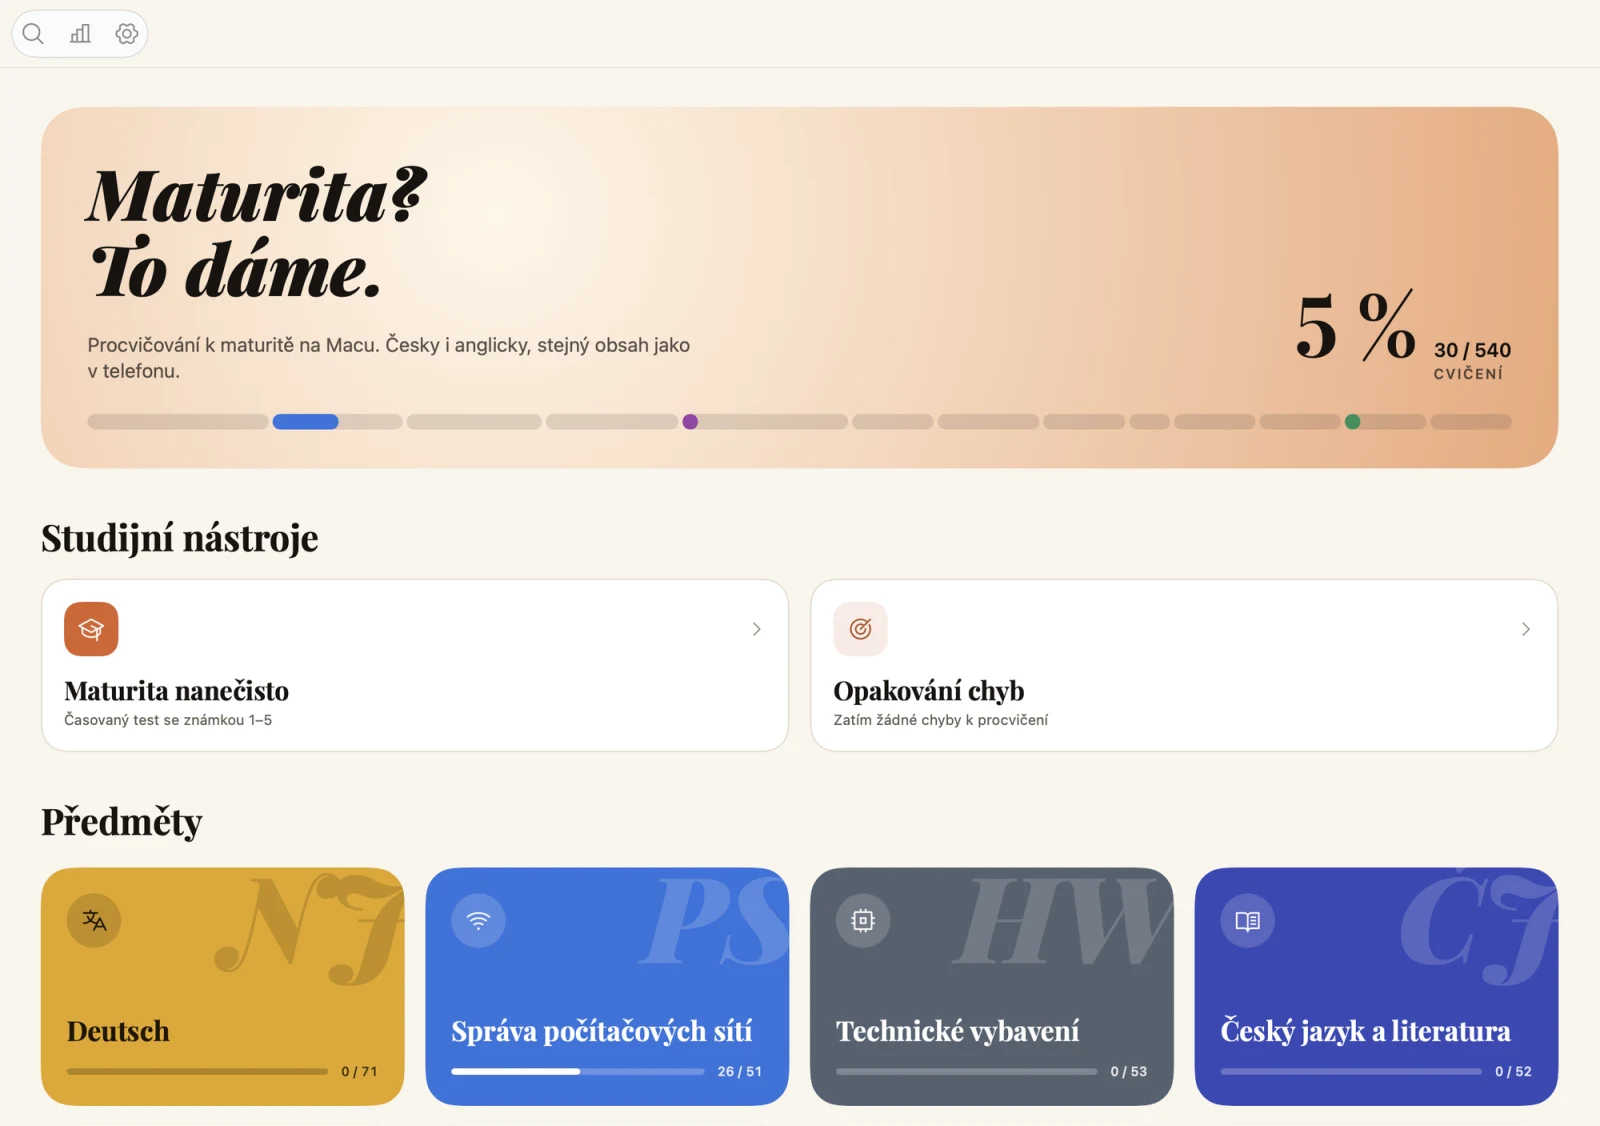
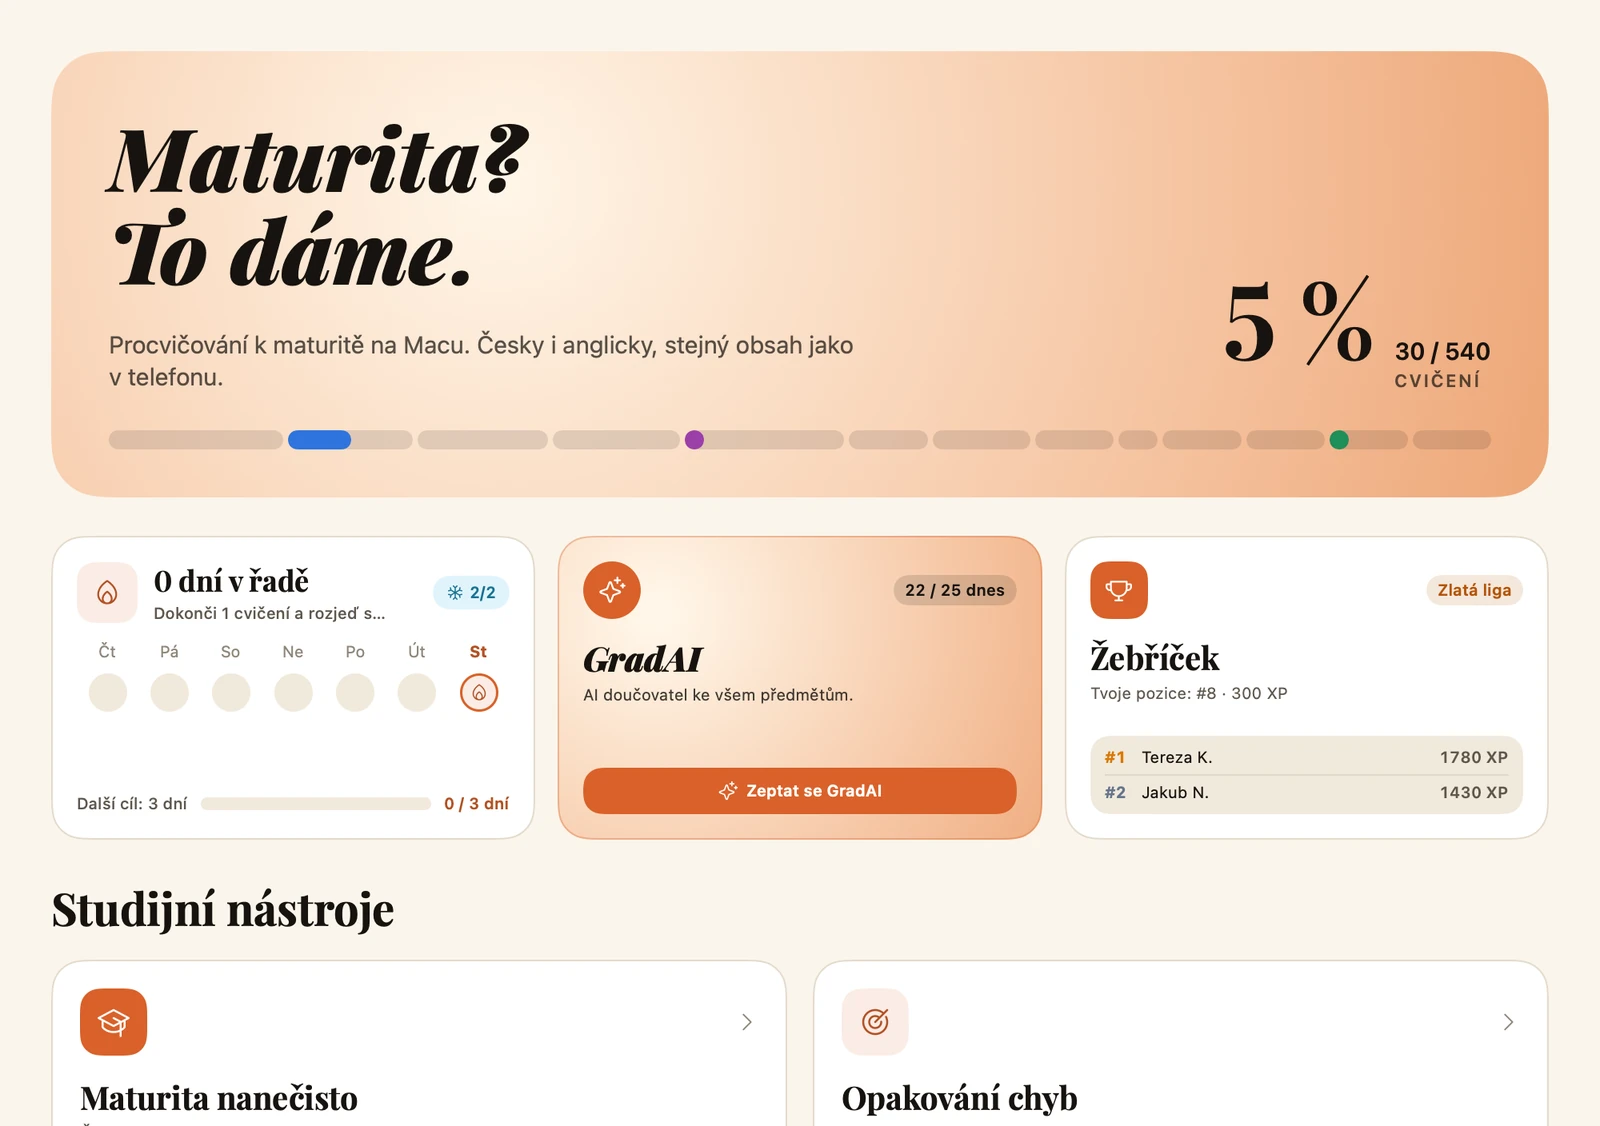
Update Graduately section to v1.3 with new Retina screenshot, GradAI, streaks, leaderboard & Apple/Google sync

diff --git a/index.html b/index.html
@@ -193,9 +193,10 @@
             </h2>
             <p class="feature-tagline">Maturita prep in one app — on every platform.</p>
             <p class="feature-text">
-              My biggest project yet: a cross-platform app for the Czech maturita exam. It packs 13 subjects, timed mock exams
-              with custom subject mixing, automatic mistake review, offline smart explanations, PDF cheat-sheet export, a live
-              C# runner, and cross-device account sync — with automatic updates built in.
+              My biggest project yet: a cross-platform app for the Czech maturita exam (v1.3). It packs 13 subjects, 625+ lessons,
+              82 reading-list books, the GradAI study tutor, daily streaks &amp; student leaderboard, timed mock exams with custom
+              subject mixing, mistake review, PDF cheat-sheet export, a live C# runner, and passwordless Apple &amp; Google sign-in
+              with cross-device sync.
             </p>
             <div class="feature-actions">
               <a class="btn btn-primary" href="https://graduately.skopec.dev" target="_blank" rel="noopener noreferrer">Visit website</a>
@@ -206,22 +207,22 @@
           </div>
           <div class="feature-media">
             <img class="feature-window" src="graduately-home.webp" width="1600" height="1126" loading="lazy" decoding="async"
-              alt="The Graduately welcome screen on a Mac, with study tools, progress bar, and colorful subject cards.">
+              alt="The Graduately 1.3 welcome screen on a Mac, with daily streak, GradAI tutor, leaderboard, and study tools.">
             <img class="feature-icon" src="graduately-icon.webp" width="256" height="256" loading="lazy" decoding="async" alt="">
           </div>
         </div>
         <ul class="feature-stats">
           <li>
-            <h3><strong>13</strong> subjects</h3>
-            <p>From German and Czech literature to computer networks, maths, AutoCAD and C#.</p>
+            <h3><strong>625+</strong> lessons</h3>
+            <p>Across 13 subjects — from Czech literature and German to computer networks, maths, AutoCAD and live C#.</p>
           </li>
           <li>
             <h3><strong>5</strong> platforms</h3>
-            <p>SwiftUI on Mac and iPhone, Kotlin + Compose on Android, Windows and Linux, with account sync.</p>
+            <p>SwiftUI (Liquid Glass) on Mac and iPhone, Kotlin + Compose on Android, Windows and Linux, with Apple &amp; Google sync.</p>
           </li>
           <li>
             <h3><strong>82</strong> reading-list books</h3>
-            <p>Each with study notes, a quiz, plot ordering, and one-click PDF cheat-sheet export.</p>
+            <p>Each with study notes, a quiz, plot ordering, GradAI help, and one-click PDF cheat-sheet export.</p>
           </li>
           <li>
             <h3><strong>CZ / EN</strong> interface</h3>

diff --git a/projects.html b/projects.html
@@ -114,15 +114,16 @@
               <h3>
                 <a href="https://graduately.skopec.dev" target="_blank" rel="noopener noreferrer">Graduately</a>
               </h3>
-              <p>My biggest project yet — a cross-platform SwiftUI &amp; Kotlin app for Czech maturita exam preparation on Mac, iPhone, Android, Windows and Linux. Includes 13 subjects, 82 reading-list books, timed mock exams with custom subject mixing, automatic mistake review, offline smart explanations, PDF cheat-sheet export, live C# code execution, and cross-device account sync.</p>
+              <p>My biggest project yet — a cross-platform SwiftUI &amp; Kotlin app (v1.3) for Czech maturita exam preparation on Mac, iPhone, Android, Windows and Linux. Includes 13 subjects, 625+ lessons, 82 reading-list books, the GradAI study tutor, daily streaks &amp; leaderboard, timed mock exams with custom subject mixing, automatic mistake review, PDF cheat-sheet export, live C# code execution, and passwordless Apple &amp; Google sign-in with cloud sync.</p>
               <ul class="project-pills" aria-label="Platforms and technologies">
                 <li>SwiftUI</li>
                 <li>Kotlin + Compose</li>
                 <li>macOS &amp; iOS</li>
                 <li>Android</li>
                 <li>Windows &amp; Linux</li>
-                <li>13 subjects</li>
-                <li>Mock exams &amp; sync</li>
+                <li>625+ lessons</li>
+                <li>GradAI &amp; Leaderboard</li>
+                <li>Apple / Google sync</li>
               </ul>
               <div class="project-card-actions">
                 <a class="btn btn-primary" href="https://graduately.skopec.dev" target="_blank" rel="noopener noreferrer">Visit website →</a>
@@ -130,7 +131,7 @@
               </div>
             </div>
             <a class="project-preview project-preview-graduately" href="https://graduately.skopec.dev" target="_blank" rel="noopener noreferrer" aria-label="Open Graduately website">
-              <img class="preview-graduately-shot" src="graduately-home.webp" width="1600" height="1126" loading="lazy" decoding="async" alt="Graduately app dashboard screenshot">
+              <img class="preview-graduately-shot" src="graduately-home.webp" width="1600" height="1126" loading="lazy" decoding="async" alt="Graduately 1.3 app dashboard screenshot with daily streak, GradAI tutor, and leaderboard">
               <img class="preview-graduately-icon" src="graduately-icon.webp" width="256" height="256" loading="lazy" decoding="async" alt="">
             </a>
           </li>
